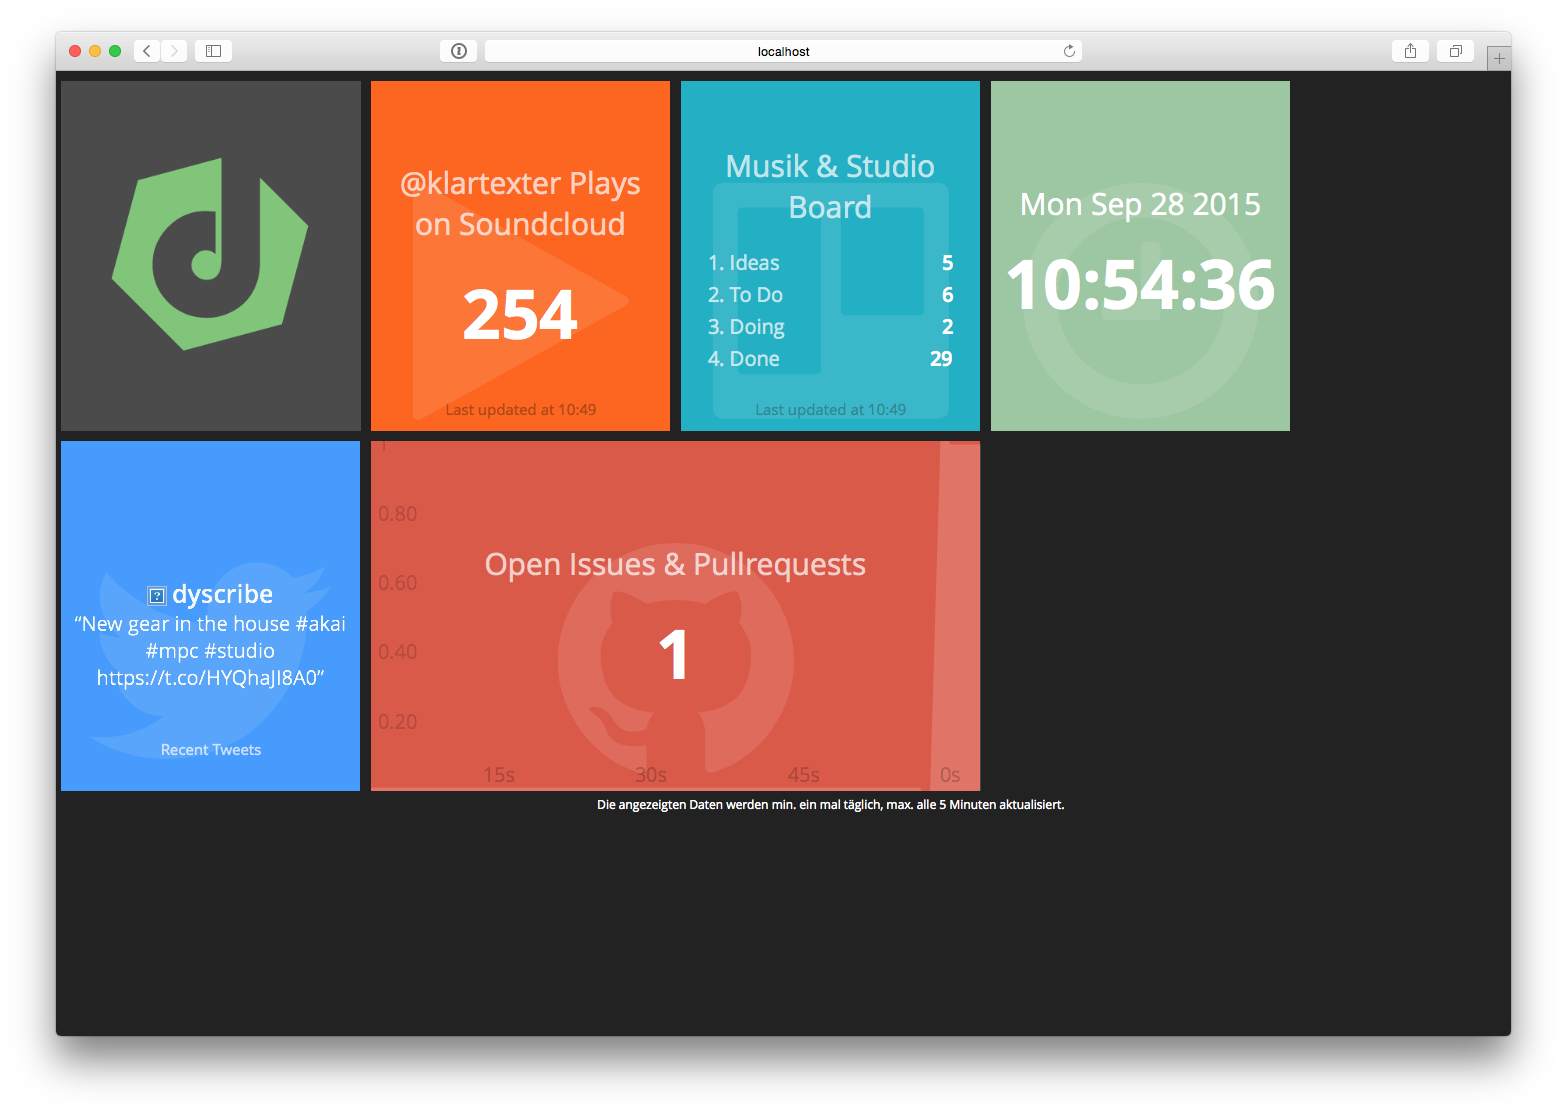
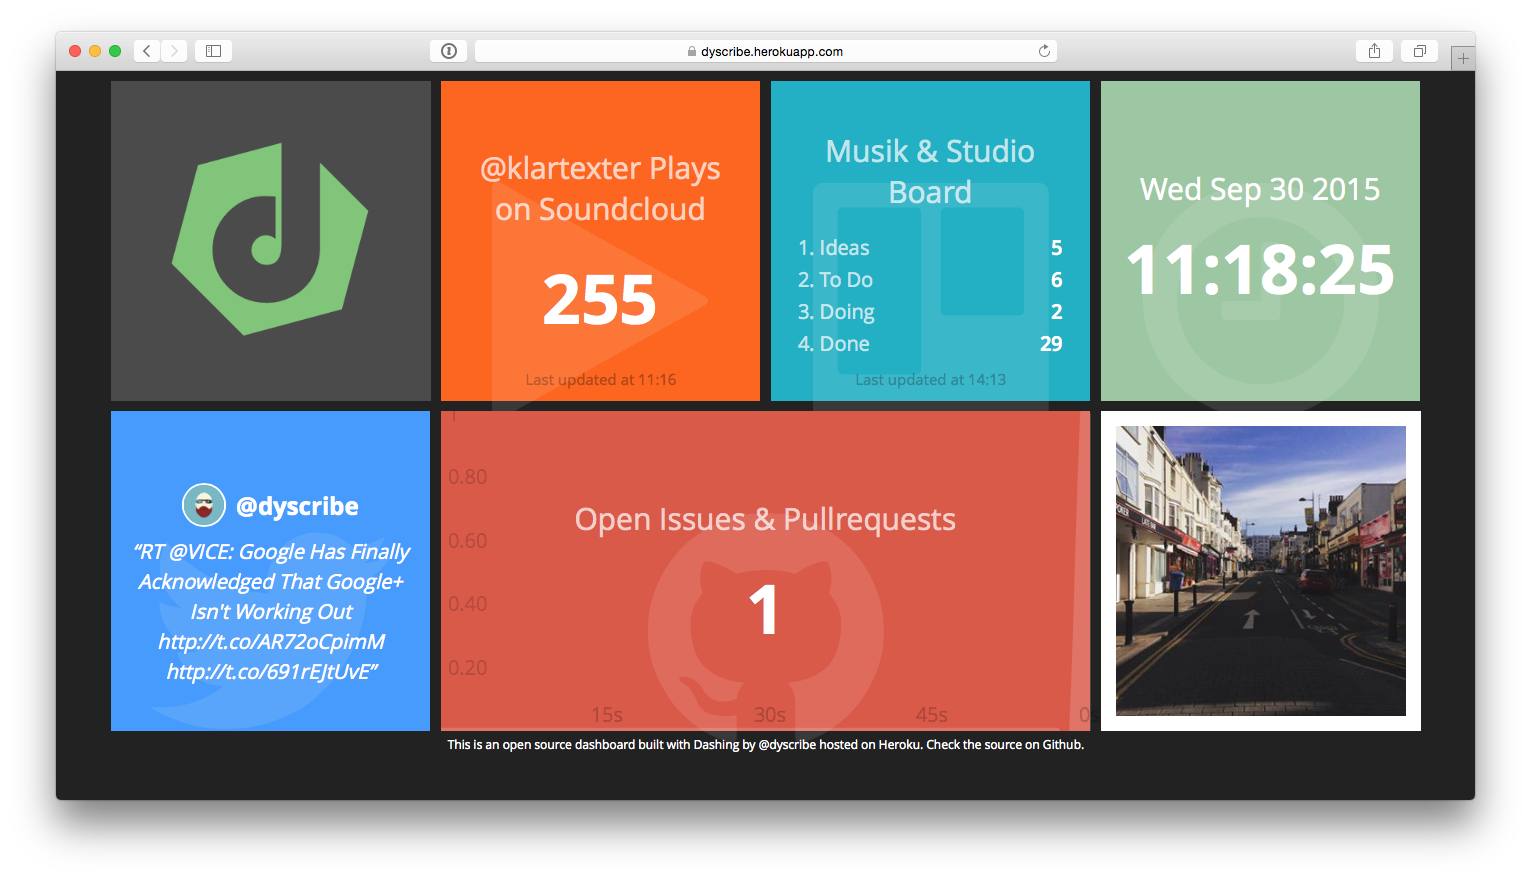
updating documentation

diff --git a/README.md b/README.md
@@ -17,6 +17,7 @@ It contains the follwing widgets:
  * **Trello:** Number of cards per list
  * **Twitter:** Recent Tweets by `@username`
  * **Github:** Number of open Pullrequests and Issues on a repo of your choice
+ * **Instagram:** Display images by a user of your choice
 
 Furthermore some standards like:
 
